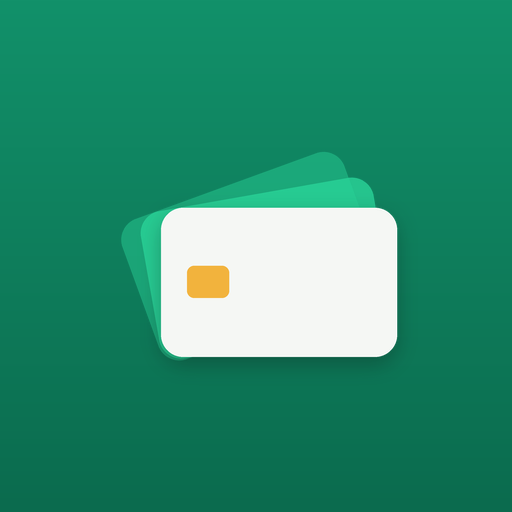
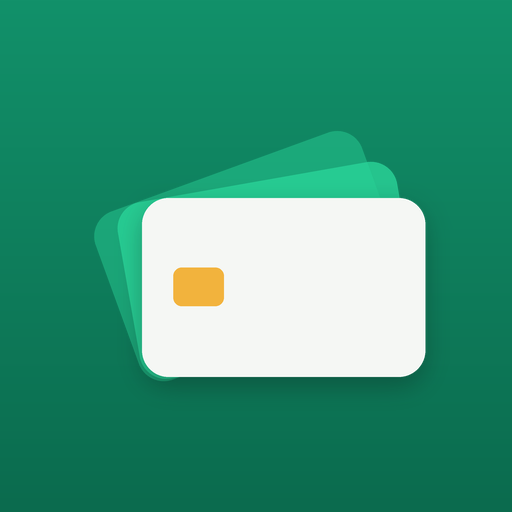
Agranda las tarjetas del icono para que llenen el círculo
A escala 1 el abanico se veía pequeño en el teléfono junto a los demás
iconos. En Android llega casi al borde de la zona segura, sin que
ninguna forma del launcher lo recorte, y en las tiendas se agranda un
20%.

Changed region(s): [[0.1875, 0.25, 0.8438, 0.75]]

diff --git a/herramientas/iconos/generar_iconos.py b/herramientas/iconos/generar_iconos.py
@@ -26,6 +26,9 @@ RADIO = 22
 CHIP = (164, 270, 42, 32, 7)    # x, y, ancho, alto, radio
 PIVOTE = (168, 352)
 ATRAS = [(-20, 0.45), (-10, 0.8)]  # grados y opacidad, de la más lejana a la más cercana
+# En los iconos con fondo, el abanico se agranda un 20% sobre la geometría de 512 para que llene el
+# icono como los de otras apps (a escala 1 se veía pequeño en el teléfono).
+AUMENTO_TIENDAS = 1.2
 
 
 def esquinas(angulo):
@@ -49,11 +52,11 @@ def rgba(h, a=1.0):
 
 # ---------- SVG ----------
 
-def svg_tarjetas(frente, atras, chip, sombra):
-    """Las tres tarjetas centradas en el lienzo de 512."""
+def svg_tarjetas(frente, atras, chip, sombra, aumento=1.0):
+    """Las tres tarjetas centradas en el lienzo de 512, agrandadas `aumento` veces."""
     x, y, w, h = TARJETA
     cx, cy, cw, ch, cr = CHIP
-    mover = f'translate({256 - CENTRO[0]:.1f} {256 - CENTRO[1]:.1f})'
+    mover = f'translate(256 256) scale({aumento}) translate({-CENTRO[0]:.1f} {-CENTRO[1]:.1f})'
     filas = [f'<g transform="{mover}">']
     for angulo, opacidad in ATRAS:
         filas.append(f'  <rect x="{x}" y="{y}" width="{w}" height="{h}" rx="{RADIO}" fill="{atras}" fill-opacity="{opacidad}" transform="rotate({angulo} {PIVOTE[0]} {PIVOTE[1]})"/>')
@@ -77,7 +80,7 @@ def escribir_svg():
     with open(f'{DESTINO}/fuente-icono.svg', 'w', encoding='utf-8') as f:
         f.write(cabeza + '  <!-- Icono de Tino (D94). Lo genera herramientas/iconos/generar_iconos.py: no editar a mano. -->\n'
                 f'  <defs>\n{fondo}{sombra}  </defs>\n  <rect width="512" height="512" fill="url(#fondo)"/>\n'
-                + svg_tarjetas(PAPEL, JADE_VIVO, ORO, True) + '\n</svg>\n')
+                + svg_tarjetas(PAPEL, JADE_VIVO, ORO, True, AUMENTO_TIENDAS) + '\n</svg>\n')
     with open(f'{DESTINO}/tino-tarjetas.svg', 'w', encoding='utf-8') as f:
         f.write(cabeza + '  <!-- Tarjetas de Tino sin fondo (D94). Generado: no editar a mano. -->\n'
                 f'  <defs>\n{sombra}  </defs>\n' + svg_tarjetas(PAPEL, JADE_VIVO, ORO, True) + '\n</svg>\n')
@@ -134,7 +137,7 @@ def degradado(lado):
 
 
 def icono_con_fondo(lado):
-    return Image.alpha_composite(degradado(lado), tarjetas(lado, lado, PAPEL, JADE_VIVO, ORO, True)).convert('RGB')
+    return Image.alpha_composite(degradado(lado), tarjetas(lado, lado * AUMENTO_TIENDAS, PAPEL, JADE_VIVO, ORO, True)).convert('RGB')
 
 
 def escribir_png():
@@ -142,19 +145,18 @@ def escribir_png():
     icono_con_fondo(512).save(f'{DESTINO}/play-store-512.png', optimize=True)
     tarjetas(1024, 1024, PAPEL, JADE_VIVO, ORO, True).save(f'{DESTINO}/tino-tarjetas.png', optimize=True)
 
-    # Icono adaptativo de Android: lienzo de 108 dp (432 px a 4x) del que se ven 72 dp; el icono de
-    # 512 se ajusta a esos 72 dp, así el abanico queda dentro de la zona segura de 66 dp.
-    visible = 432 * 72 / 108
+    # Icono adaptativo de Android: lienzo de 108 dp (432 px a 4x); cualquier forma del launcher
+    # deja ver al menos el círculo de 66 dp del centro. El abanico se agranda hasta que su diagonal
+    # mida 64 dp: llena el icono sin que ninguna forma lo recorte.
+    diagonal = math.hypot(CAJA[2] - CAJA[0], CAJA[3] - CAJA[1])
+    visible = 432 * 64 / 108 / diagonal * 512
     degradado(432).save(f'{DESTINO}/android-fondo.png', optimize=True)
     tarjetas(432, visible, PAPEL, JADE_VIVO, ORO, True).save(f'{DESTINO}/android-primer-plano.png', optimize=True)
     tarjetas(432, visible, '#FFFFFF', '#FFFFFF', None, False).save(f'{DESTINO}/android-monocromo.png', optimize=True)
 
     # Splash (Android 12+): recorta en un círculo de 2/3 del lienzo; el abanico tiene que caber con aire.
-    lado_caja = max(CAJA[2] - CAJA[0], CAJA[3] - CAJA[1])
-    diagonal = math.hypot(CAJA[2] - CAJA[0], CAJA[3] - CAJA[1])
     escala = 1024 * (2 / 3) * 0.9 / diagonal * 512
     tarjetas(1024, escala, PAPEL, JADE_VIVO, ORO, True).save(f'{DESTINO}/splash.png', optimize=True)
-    assert lado_caja  # la caja nunca es vacía
 
 
 if __name__ == '__main__':

diff --git a/docs/progreso.md b/docs/progreso.md
@@ -343,5 +343,5 @@ Criterios de la especificación:
 | D91 | 2026-09-29 | Ajustes, Privacidad queda en el interruptor "Compartir datos de uso" ("Nos ayudan a mejorar Tino y tu experiencia"), una frase ("Son datos anónimos sobre cómo usas la app. Nunca incluyen datos sensibles, como montos, ni nada que te identifique.") y los enlaces a la política y los términos. Se quitan la lista de qué incluye y qué no (y la hoja "Qué se comparte" del onboarding y de Inicio, que pasan a enlazar la política) y "Restablecer identificador": el identificador se sigue viendo en "Ver mis datos", para pedir por correo que se borren los datos de uso, y "Borrar todo" crea uno nuevo. Se aparta de la sección 10 técnica ("reiniciable desde Ajustes") | La lista era demasiado texto para una pantalla de ajustes: el detalle está en la política, a un toque, que es la información por capas que usan las apps grandes y que cumple el consentimiento informado. Restablecer el identificador no le sirve al usuario común; quien cuida su privacidad tiene el interruptor, "Borrar todo" y el correo. Ninguna ley ni tienda lo pide |
 | D92 | 2026-09-29 | Ajustes enlaza solo "Ayuda y soporte"; la política y los términos viven en Ajustes, Privacidad (y siguen en la bienvenida y el muro de pago) | Un solo lugar para lo legal en vez de dos filas repetidas. Google Play pide la política dentro de la app y Apple los dos documentos en la compra: los dos se cumplen |
 | D93 | 2026-09-30 | En Android, crear un respaldo ofrece "Guardar en el teléfono" (selector de carpetas del sistema, `Directory.pickDirectoryAsync`) y "Enviar a otra app" (hoja de compartir). En iPhone sigue un solo botón, porque su hoja de compartir trae "Guardar en Archivos". Si el usuario cancela la carpeta, no cuenta como respaldo | La hoja de compartir de Android no ofrece guardar en el teléfono: solo muestra las apps instaladas (Drive, Gmail, Quick Share). El selector de carpetas no necesita el permiso de almacenamiento que se quitó en D89 |
-| D94 | 2026-10-01 | Icono nuevo: tres tarjetas en abanico, en proporción real (85.6 × 54 mm), sobre el jade de siempre; al frente, la que Tino elige, blanca con su chip dorado, y detrás dos en jade vivo translúcido. Reemplaza las dos tarjetas con el sello de acierto. Un solo script, `herramientas/iconos/generar_iconos.py`, genera desde la misma geometría los PNG de las tiendas, las capas de Android, el splash, el SVG fuente y el logo sin fondo (SVG y PNG) y monocromo. Un solo estilo en todas partes: la tarjeta del frente blanca con sombra, que se lee sobre el jade, en fondos claros, grises y oscuros (se descartó una versión con la tarjeta en jade para fondos claros). `LogoTino` usa los roles nuevos `logoAtras` y `logoChip` y dibuja la sombra con dos capas, porque los filtros de react-native-svg no se ven bien en Android; reemplaza a `generar_splash.py`. `LogoTino` y la página de Tino en polancolabs.com usan la misma figura | El icono anterior se veía genérico. Se eligió entre tres variantes (pila diagonal, perspectiva y abanico) revisadas a 24, 40 y 64 px, en la máscara redonda, monocromo y splash; el abanico transmite elegir una tarjeta entre varias. Una geometría única evita que los formatos se desvíen entre sí |
+| D94 | 2026-10-01 | Icono nuevo: tres tarjetas en abanico, en proporción real (85.6 × 54 mm), sobre el jade de siempre; al frente, la que Tino elige, blanca con su chip dorado, y detrás dos en jade vivo translúcido. Reemplaza las dos tarjetas con el sello de acierto. Un solo script, `herramientas/iconos/generar_iconos.py`, genera desde la misma geometría los PNG de las tiendas, las capas de Android, el splash, el SVG fuente y el logo sin fondo (SVG y PNG) y monocromo. Un solo estilo en todas partes: la tarjeta del frente blanca con sombra, que se lee sobre el jade, en fondos claros, grises y oscuros (se descartó una versión con la tarjeta en jade para fondos claros). En el icono de Android el abanico llega a 64 de los 66 dp de la zona segura y en los iconos de las tiendas se agranda un 20% (a escala 1 se veía pequeño en el teléfono). `LogoTino` usa los roles nuevos `logoAtras` y `logoChip` y dibuja la sombra con dos capas, porque los filtros de react-native-svg no se ven bien en Android; reemplaza a `generar_splash.py`. `LogoTino` y la página de Tino en polancolabs.com usan la misma figura | El icono anterior se veía genérico. Se eligió entre tres variantes (pila diagonal, perspectiva y abanico) revisadas a 24, 40 y 64 px, en la máscara redonda, monocromo y splash; el abanico transmite elegir una tarjeta entre varias. Una geometría única evita que los formatos se desvíen entre sí |
 | D11 | 2026-09-25 | (Sin uso en pantalla desde D30.) La barra de orden desempata manteniendo el orden recomendado | La sección 5.4 no define el desempate de la barra; así el resultado es estable y predecible |
